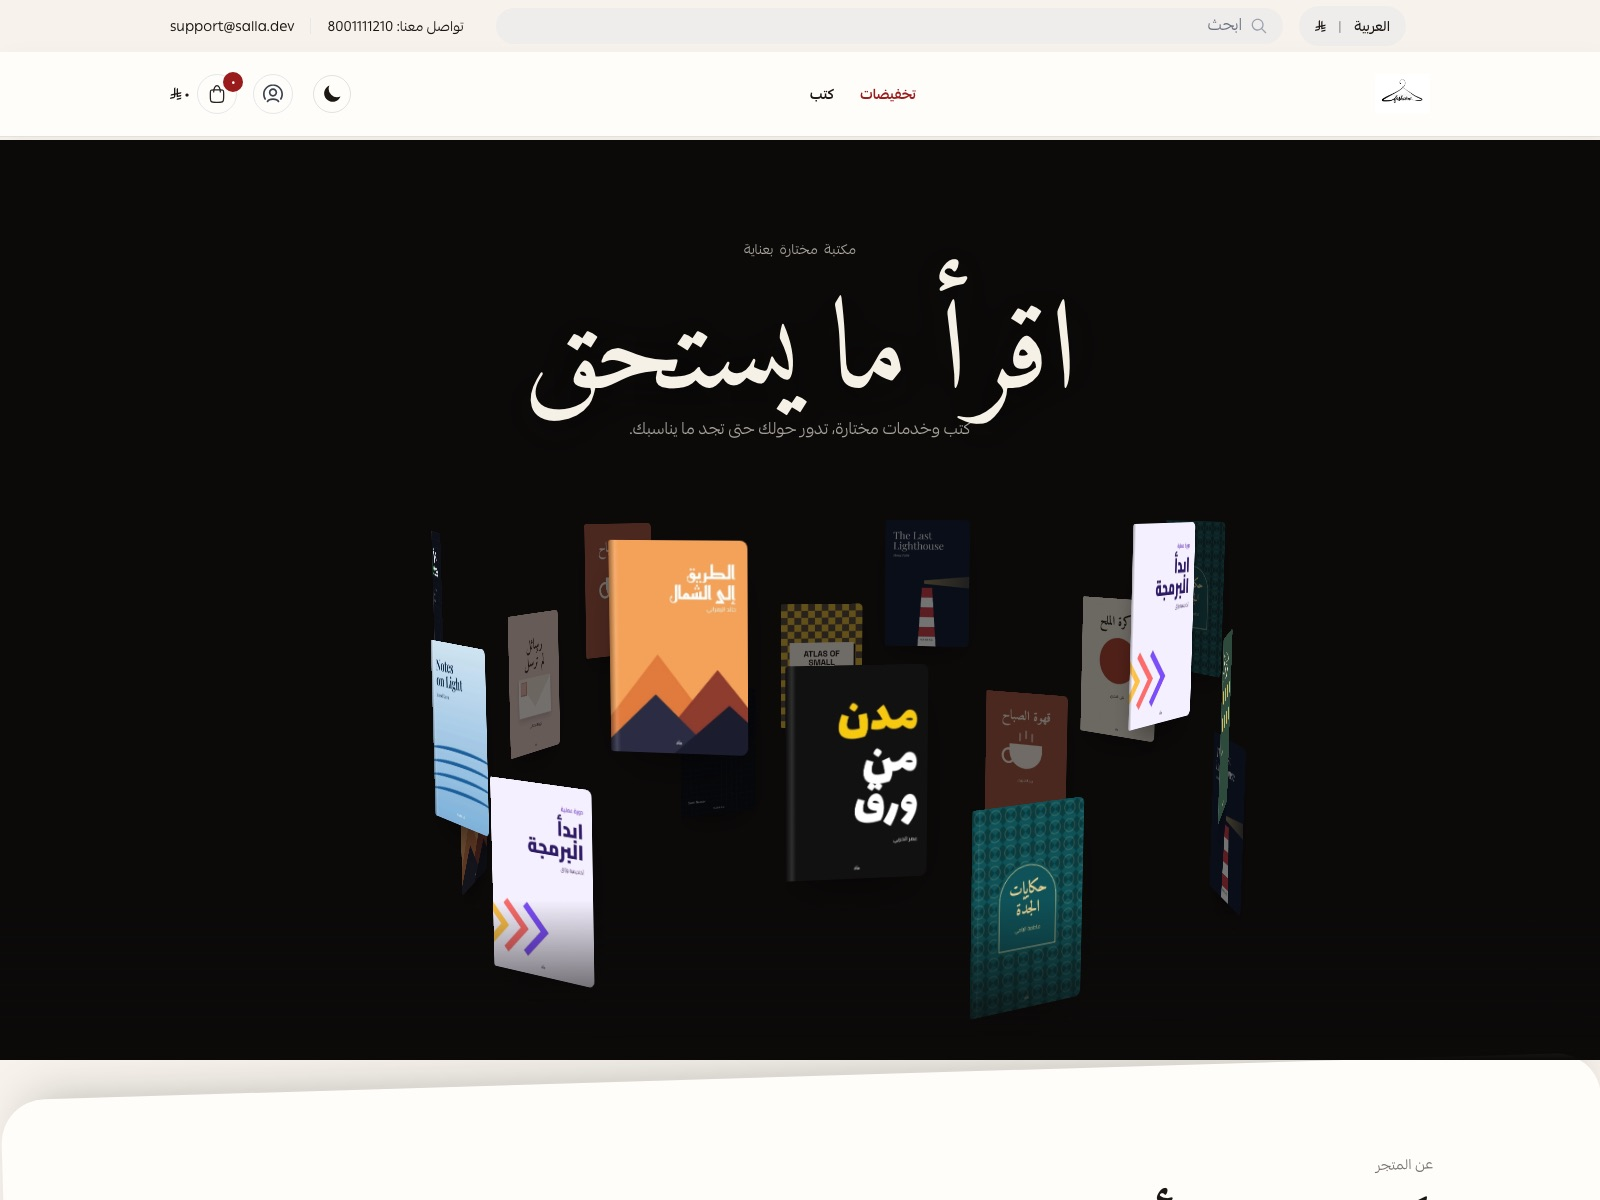
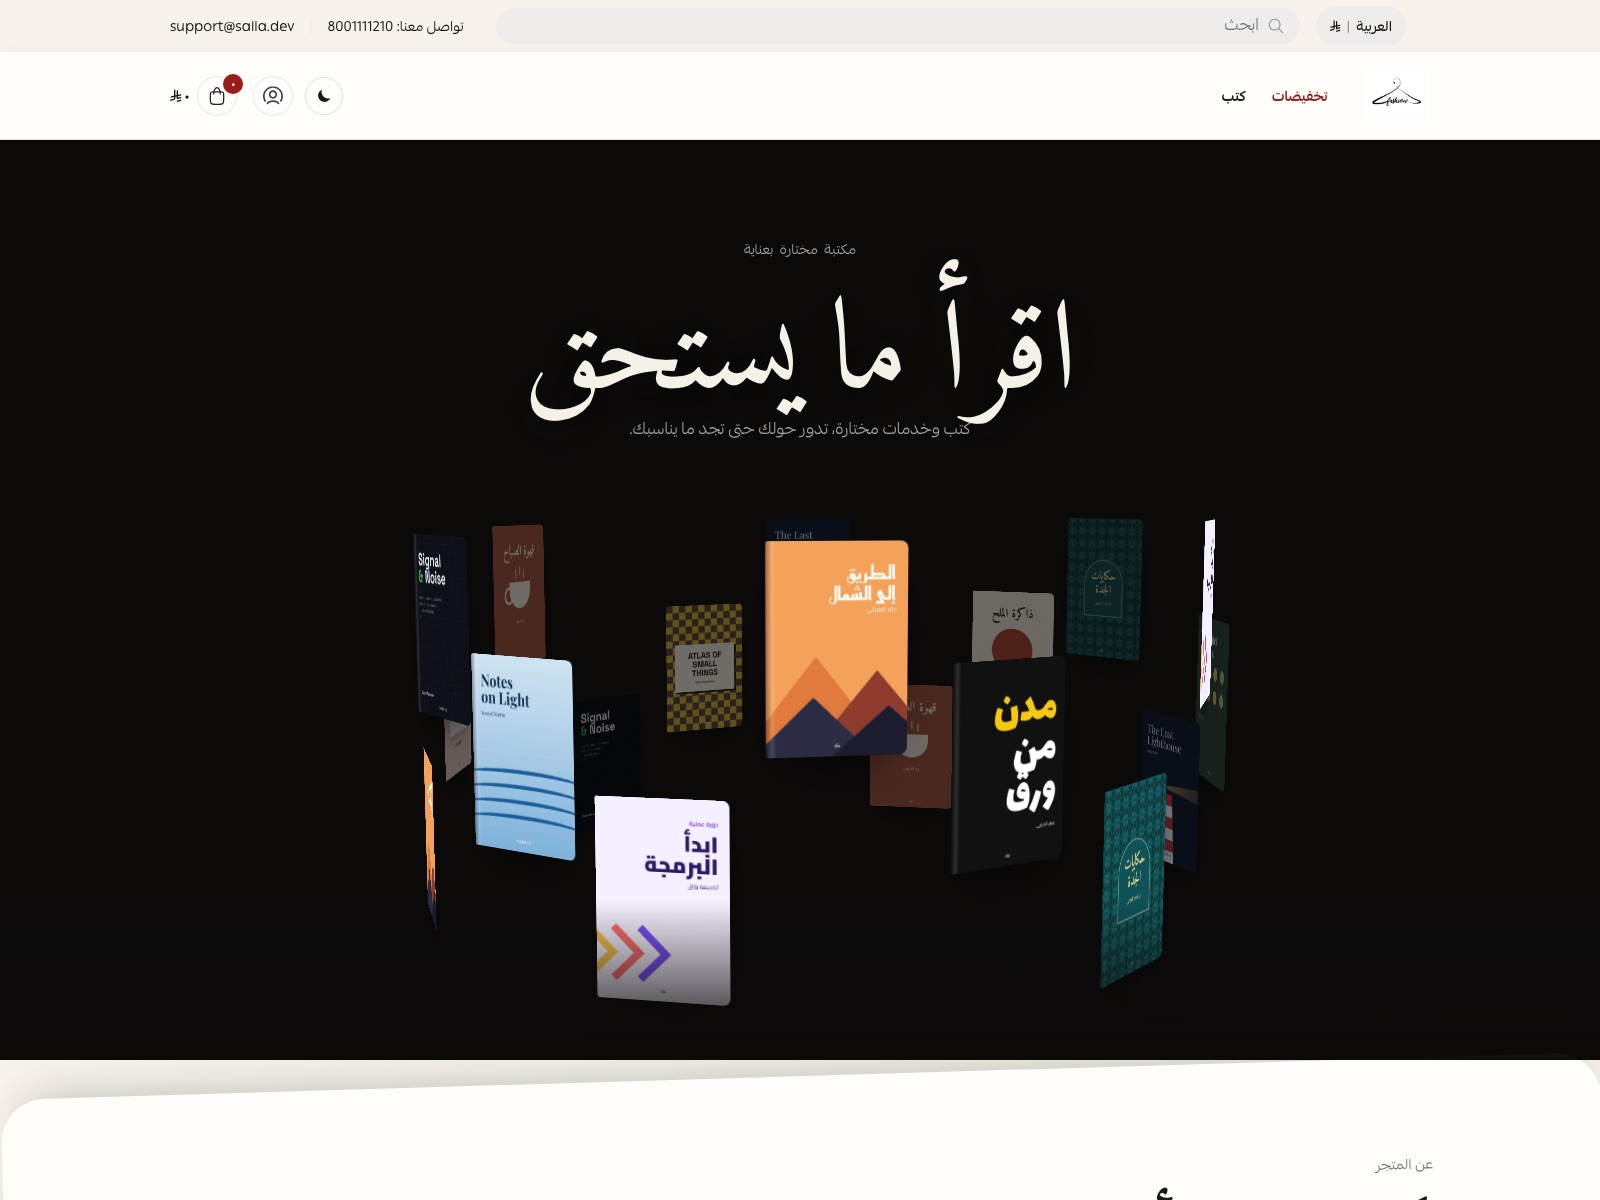
Refresh the screenshots and add phone views
The desktop shots now show the current header (menu beside the logo). Five phone shots show the
phone layout: home, side menu, category, product with the add-to-cart bar, and product details.

diff --git a/README.md b/README.md
@@ -6,6 +6,16 @@ A Salla theme for book, services and tech stores: warm paper tones, serif headin
 
 ![Home page](screenshots/01-home-hero.jpg)
 
+### On phones | على الجوال
+
+<p>
+  <img src="screenshots/phone/01-home.jpg" width="180" alt="Home page on a phone">
+  <img src="screenshots/phone/02-menu.jpg" width="180" alt="Side menu on a phone">
+  <img src="screenshots/phone/03-category.jpg" width="180" alt="Category page on a phone">
+  <img src="screenshots/phone/04-product.jpg" width="180" alt="Product page on a phone, with the add-to-cart bar">
+  <img src="screenshots/phone/05-product-details.jpg" width="180" alt="Product details on a phone">
+</p>
+
 ## Support | الدعم
 
 Questions, problems or customisation requests: **surelyshahad@gmail.com**
@@ -14,4 +24,4 @@ Questions, problems or customisation requests: **surelyshahad@gmail.com**
 
 ---
 
-This repository holds the setup guide and a few screenshots of the theme (`screenshots/`). The theme code itself is private.
+This repository holds the setup guide and screenshots of the theme (`screenshots/`, phone views in `screenshots/phone/`). The theme code itself is private.
